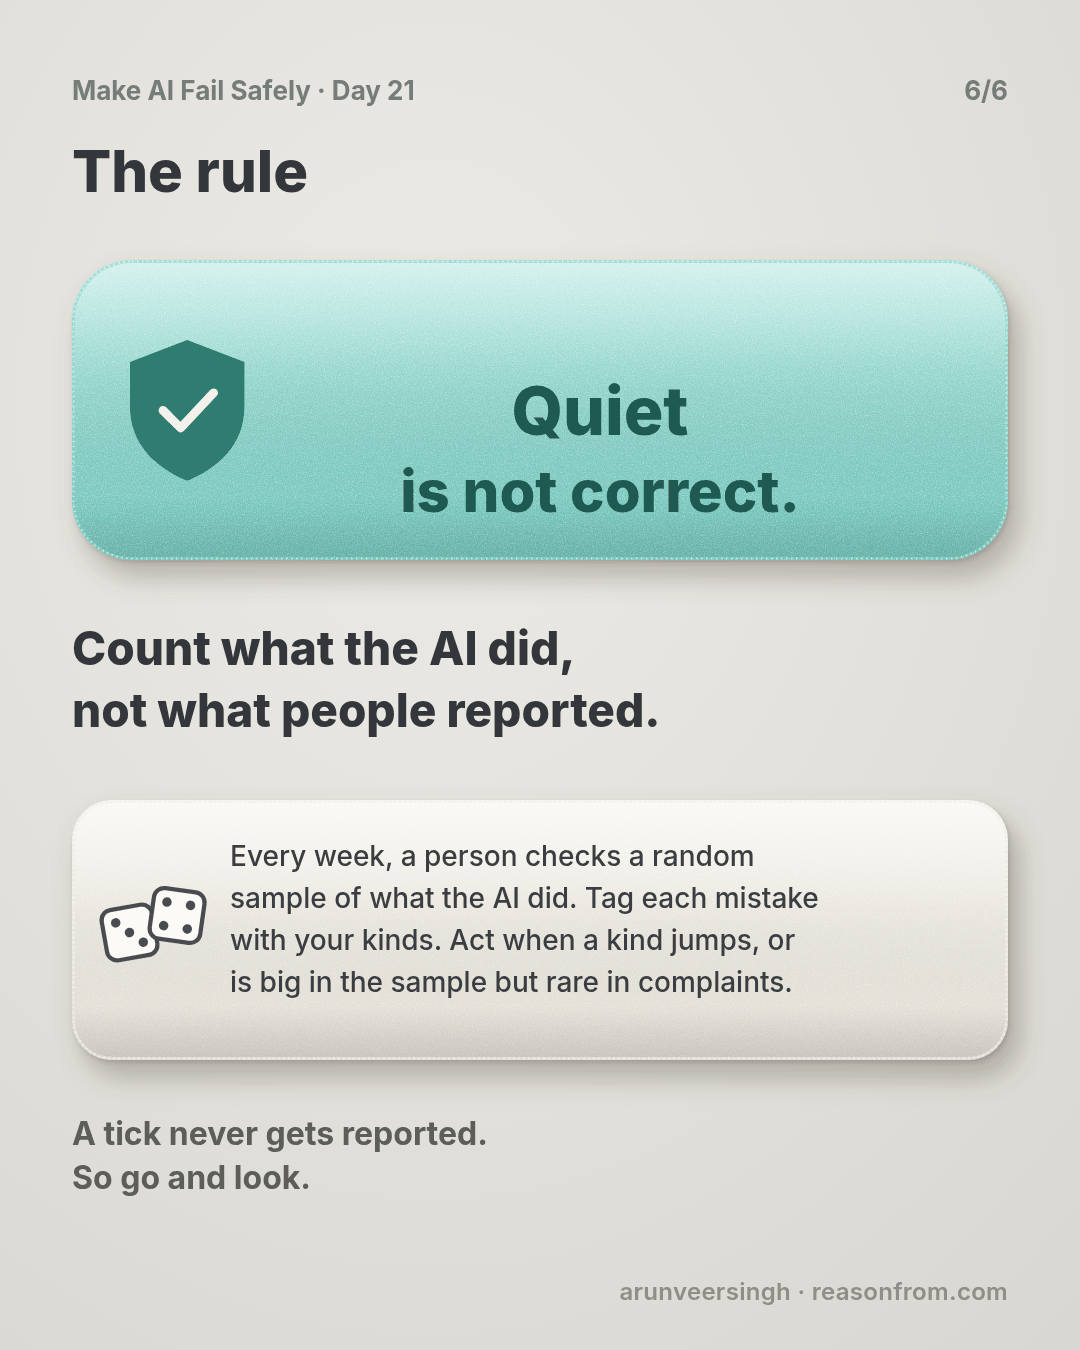
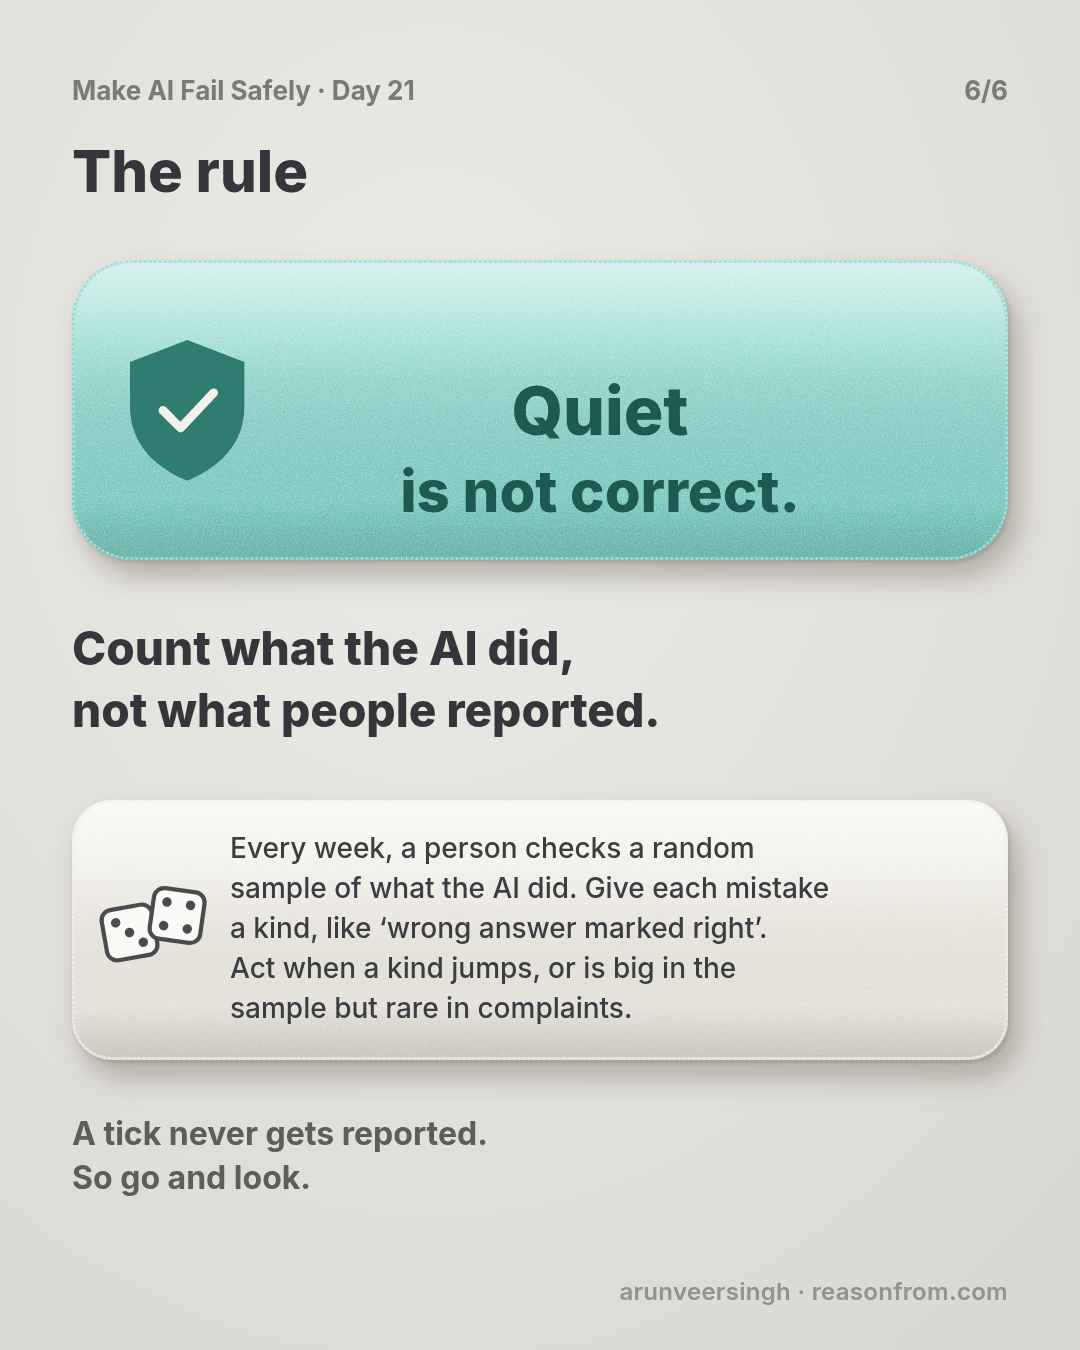
Day 21: clearer wording on slide 6 (#26)

Changed region(s): [[0.2139, 0.6222, 0.7639, 0.7778]]

diff --git a/courses/make-ai-fail-safely/day-21.md b/courses/make-ai-fail-safely/day-21.md
@@ -177,5 +177,5 @@ Stuck on one? Re-read **What you'll learn**, **The story** and **Ask first** onc
 
 <table>
 <tr><td><a href="./assets/day-21/slide-1.png"><img src="./assets/day-21/slide-1.png" width="240" alt="1/6: Fewer complaints. More mistakes. A child does maths homework on an app, and an AI marks each answer right or wrong. The question is what is 7 minus 10; the child writes 3, and the AI marks it right. Nobody complains about a tick: the child is happy, learns the wrong method, and finds out in a class test weeks later. Complaints fell from 85 a week to 52, and the mistakes went up."></a></td><td><a href="./assets/day-21/slide-2.png"><img src="./assets/day-21/slide-2.png" width="240" alt="2/6: Complaints go down. A maths homework app for children aged 10 to 14 gives its AI written instructions, called the prompt; the AI marks a child&#x27;s answer right or wrong and explains the step missed. Week 2 of term: 85 complaints a week, most saying a right answer was marked wrong, such as 0.5 when the sheet said 1/2. In week 4 a developer adds a line to the instructions: if the child&#x27;s answer means the same as the correct answer, like 0.5 and 1/2, mark it right. Week 10: complaints fall from 85 to 52 a week, and the team calls it a win."></a></td><td><a href="./assets/day-21/slide-3.png"><img src="./assets/day-21/slide-3.png" width="240" alt="3/6: Count, don&#x27;t wait. 200 answers picked at random from week 2 and 200 from week 10 are marked again by a maths teacher before she sees the AI&#x27;s marks. Kind, week 2, week 10, complaints in week 10: wrong answer marked right 2, 10, 1; right answer marked wrong 4, 2, 44; other 1, 1, 7; total in 200: 7, 13, 52. 10 in 200 is 5%; across 60,000 answers a week that is about 3,000 wrong answers marked right, and 1 complaint said so. The new line told the AI to be generous, and it was generous with wrong answers too."></a></td></tr>
-<tr><td><a href="./assets/day-21/slide-4.png"><img src="./assets/day-21/slide-4.png" width="240" alt="4/6: The fix, and the loop. The developer removes the generous line; code checks whether the child&#x27;s number equals the correct one, so 0.5 and 1/2 are equal and 3 and minus 3 are not, and the AI only writes the explanation. Then every Monday: 200 answers from last week picked at random; a teacher marks them before seeing the AI&#x27;s marks, in less than two hours; each mistake gets a kind from Day 20; compare with the last four weeks and with complaints. Wrong answers marked right in the next two samples: 2, then 1."></a></td><td><a href="./assets/day-21/slide-5.png"><img src="./assets/day-21/slide-5.png" width="240" alt="5/6: Where it fits: in the spec, each AI step gets a weekly sample, saying how many, who checks and what correct means; in the plan, a change to instructions or the model names the kinds to watch in the next two samples; in the tasks, the coding agent writes the picking script and the weekly table and never does the checking; done means the next two samples show no kind rising, not just fewer complaints. Common mistake: sampling from complaints or hard questions, the same lopsided pile. Pick at random."></a></td><td><a href="./assets/day-21/slide-6.png"><img src="./assets/day-21/slide-6.png" width="240" alt="6/6: Rule: quiet is not correct. Count what the AI did, not what people reported. Every week, a person checks a random sample of what the AI did, tags each mistake with your kinds, and acts when a kind jumps, or is big in the sample but rare in complaints. A tick never gets reported, so go and look."></a></td></tr>
+<tr><td><a href="./assets/day-21/slide-4.png"><img src="./assets/day-21/slide-4.png" width="240" alt="4/6: The fix, and the loop. The developer removes the generous line; code checks whether the child&#x27;s number equals the correct one, so 0.5 and 1/2 are equal and 3 and minus 3 are not, and the AI only writes the explanation. Then every Monday: 200 answers from last week picked at random; a teacher marks them before seeing the AI&#x27;s marks, in less than two hours; each mistake gets a kind from Day 20; compare with the last four weeks and with complaints. Wrong answers marked right in the next two samples: 2, then 1."></a></td><td><a href="./assets/day-21/slide-5.png"><img src="./assets/day-21/slide-5.png" width="240" alt="5/6: Where it fits: in the spec, each AI step gets a weekly sample, saying how many, who checks and what correct means; in the plan, a change to instructions or the model names the kinds to watch in the next two samples; in the tasks, the coding agent writes the picking script and the weekly table and never does the checking; done means the next two samples show no kind rising, not just fewer complaints. Common mistake: sampling from complaints or hard questions, the same lopsided pile. Pick at random."></a></td><td><a href="./assets/day-21/slide-6.png"><img src="./assets/day-21/slide-6.png" width="240" alt="6/6: Rule: quiet is not correct. Count what the AI did, not what people reported. Every week, a person checks a random sample of what the AI did, gives each mistake a kind, like wrong answer marked right, and acts when a kind jumps, or is big in the sample but rare in complaints. A tick never gets reported, so go and look."></a></td></tr>
 </table>
